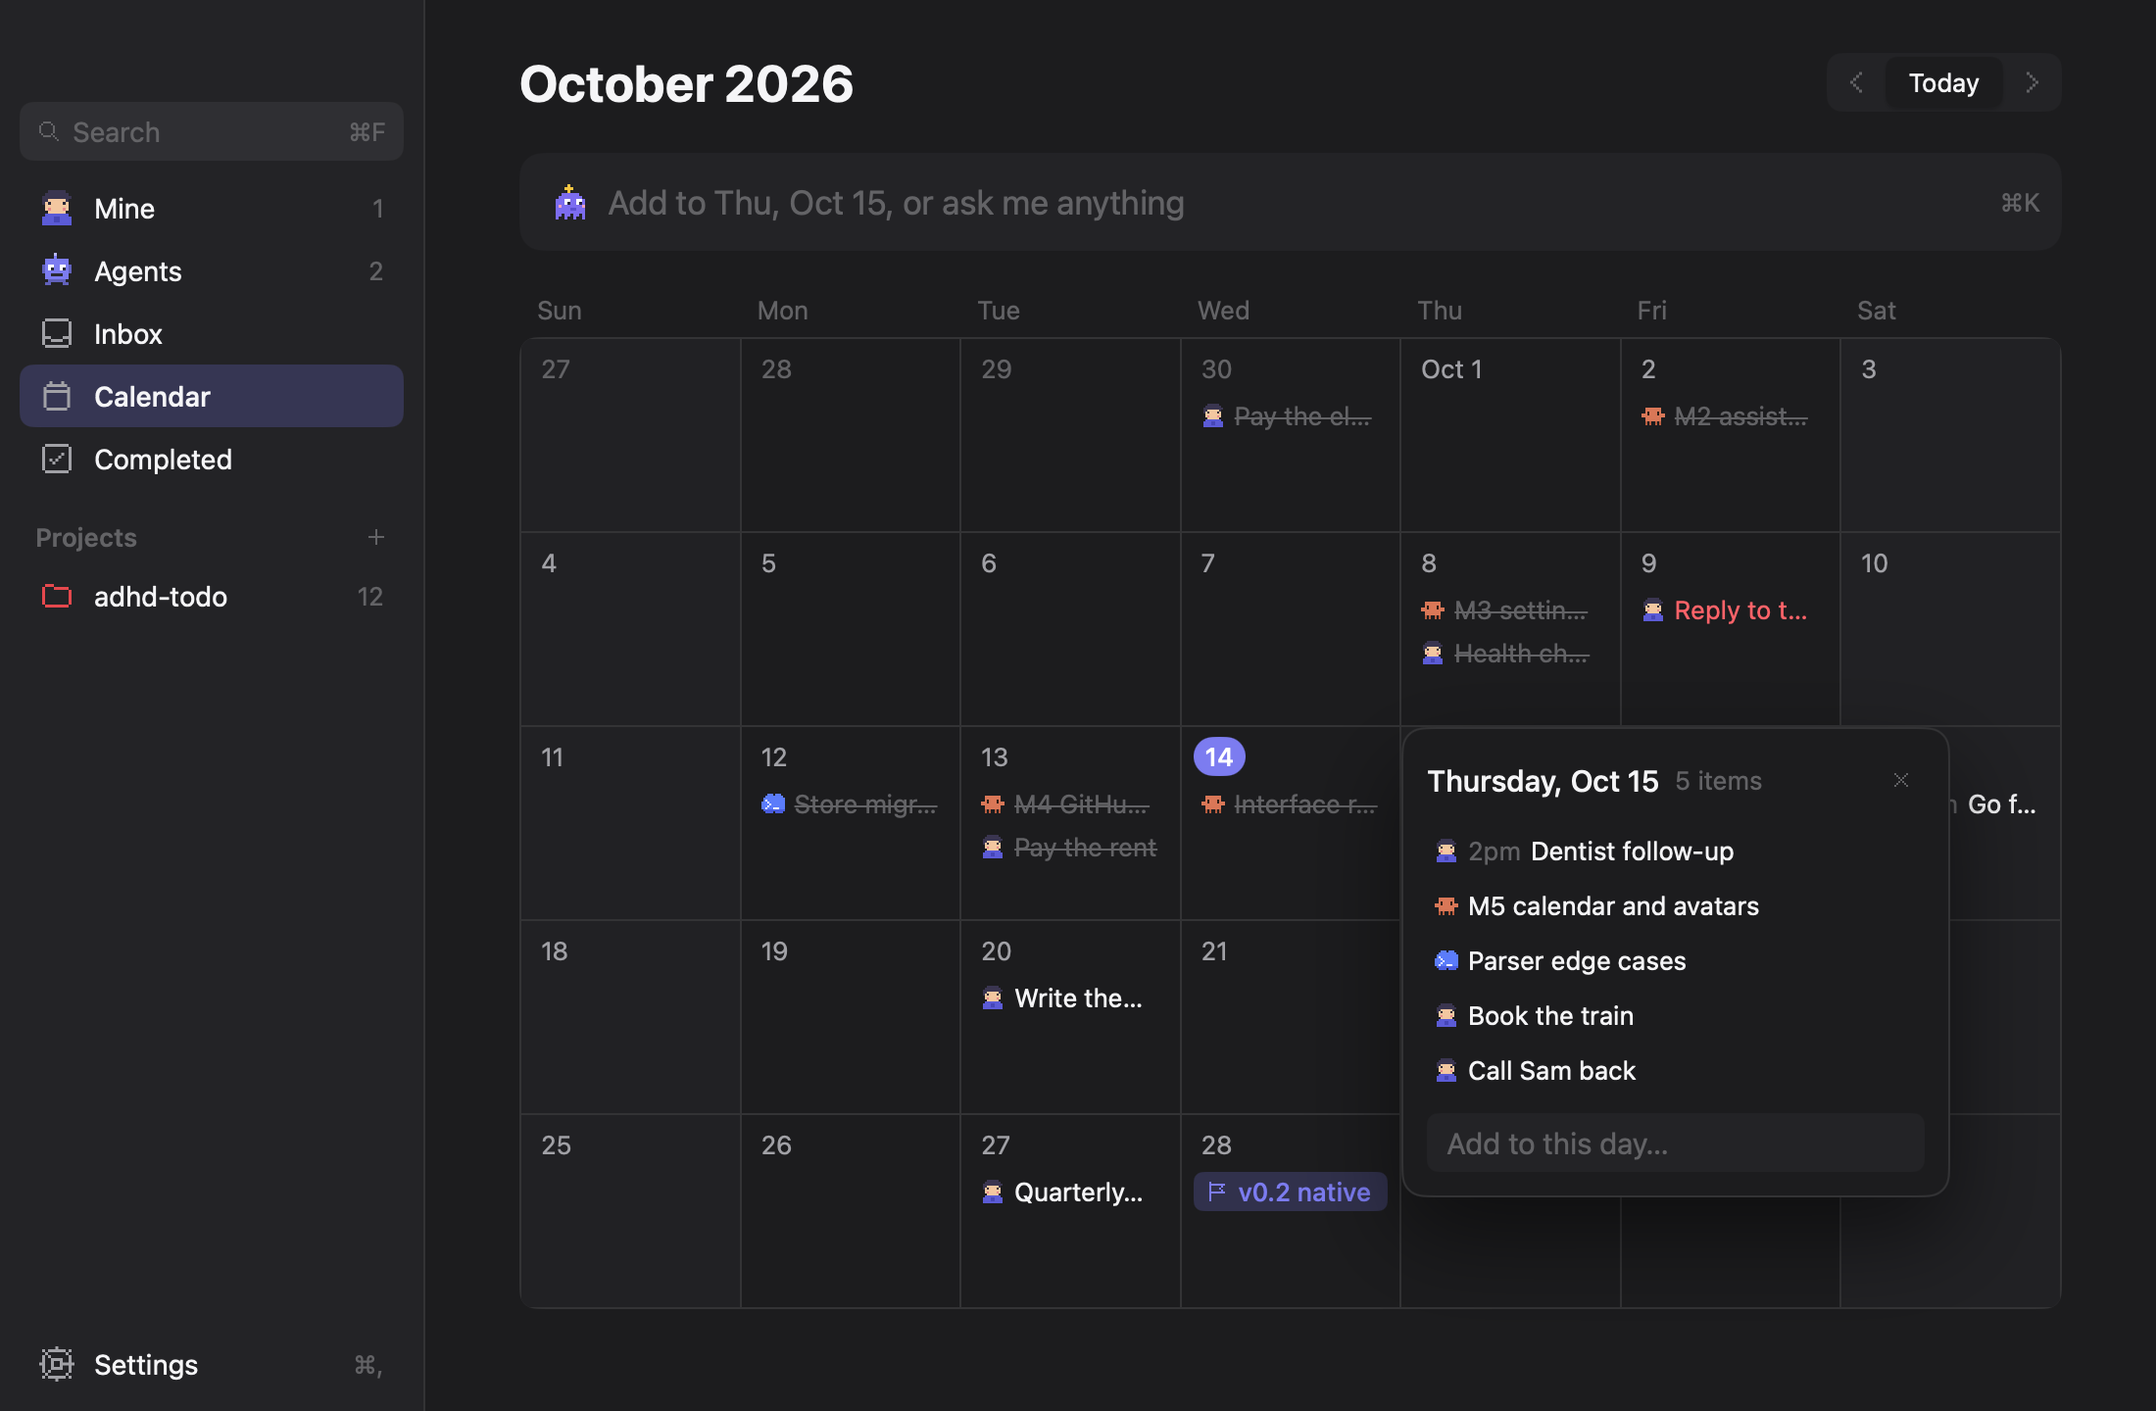
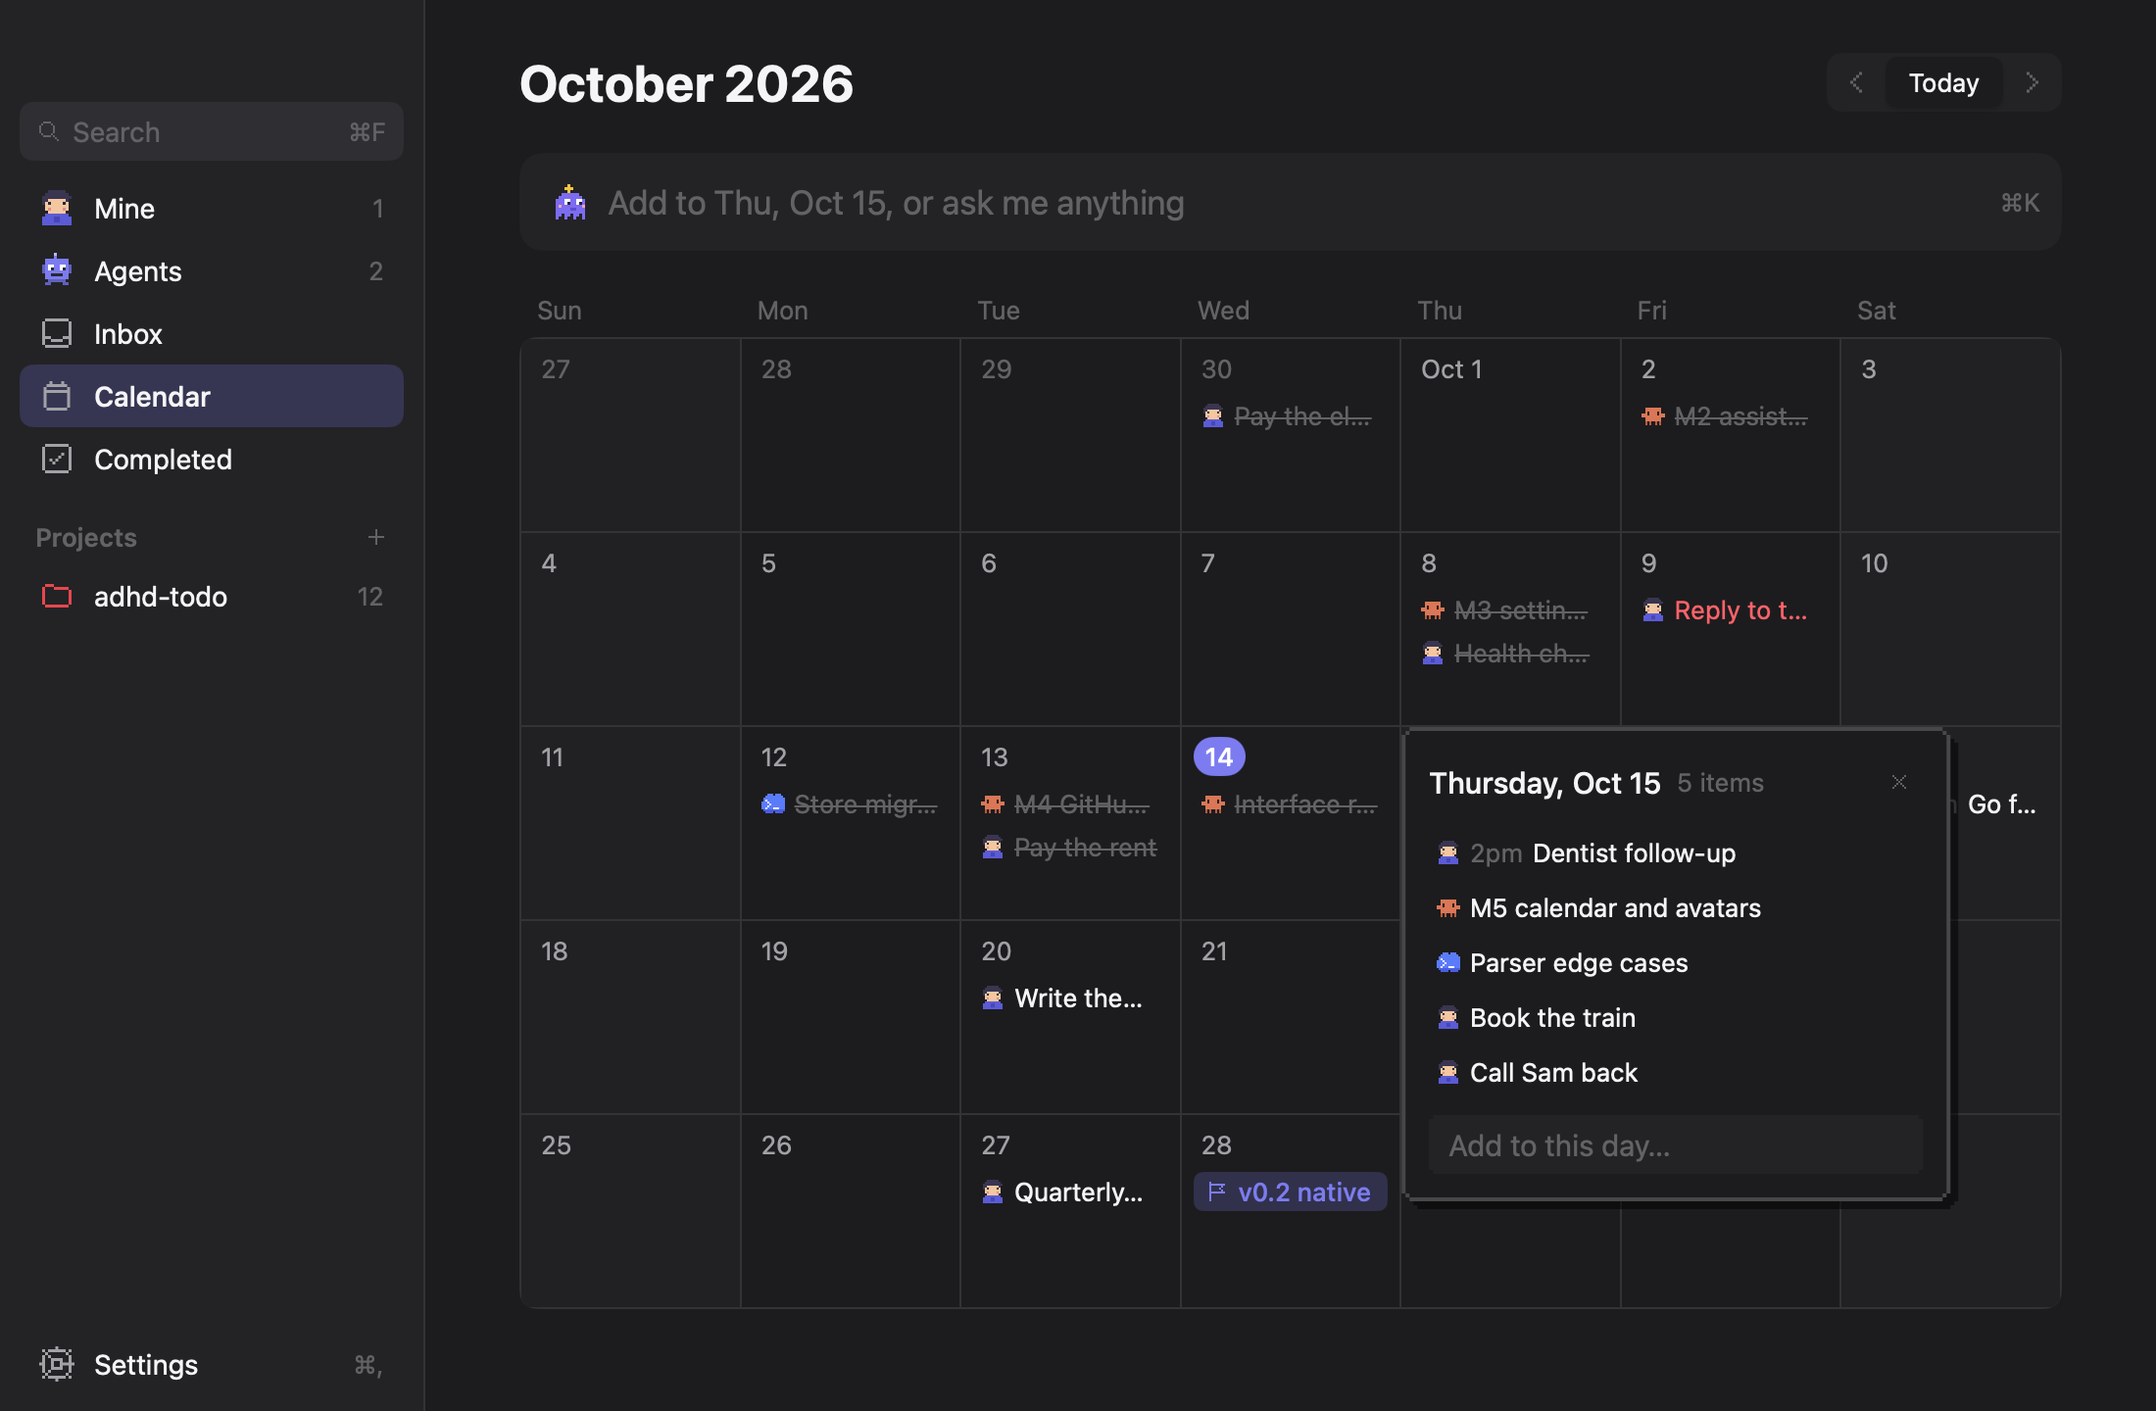
docs(design): v8, the day card in pixels; the spec and the day card screens follow B

Changed region(s): [[0.6491, 0.5938, 0.8345, 0.8125], [0.6491, 0.5312, 0.8036, 0.5625], [0.7418, 0.8125, 0.7727, 0.8438]]

diff --git a/docs/design/mockups/v8.html b/docs/design/mockups/v8.html
@@ -1,0 +1,168 @@
+<!doctype html>
+<html lang="zh-Hans">
+<head>
+<meta charset="utf-8">
+<title>adhd-todo · v8 草稿 — 日卡的像素风和打开动画</title>
+<style>
+  :root {
+    --bg: #ffffff; --subtle: #f4f4f6; --hover: rgba(0,0,0,.045); --border: rgba(0,0,0,.08);
+    --text: #1d1d1f; --text2: #6e6e73; --text3: #a1a1a6; --accent: #5b5bd6; --blocked: #e5484d;
+    --ring: rgba(91,91,214,.6); --well: #f4f4f6;
+    --px-edge: #c9c9d1; --px-shadow: rgba(0,0,0,.10); --ink: #2a2a33; --ink-shadow: rgba(91,91,214,.35);
+  }
+  .dark {
+    --bg: #1c1c1e; --subtle: #2a2a2d; --hover: rgba(255,255,255,.06); --border: rgba(255,255,255,.10);
+    --text: #f2f2f7; --text2: #a1a1a8; --text3: #6c6c73; --accent: #7b7bf0; --blocked: #ff6369;
+    --ring: rgba(123,123,240,.6); --well: #2a2a2d;
+    --px-edge: #48484f; --px-shadow: rgba(0,0,0,.55); --ink: #e6e6ee; --ink-shadow: rgba(123,123,240,.45);
+  }
+  * { box-sizing: border-box; }
+  body { margin: 0; padding: 48px; background: #e4e4ea; font: 15px/22px -apple-system, "PingFang SC", "SF Pro Text", system-ui, sans-serif; color: #1d1d1f; -webkit-font-smoothing: antialiased; }
+  h1 { font: 700 24px/32px -apple-system, "PingFang SC"; margin: 0 0 8px 4px; }
+  .lead { font-size: 14px; line-height: 22px; color: #6e6e73; max-width: 1240px; margin: 0 4px 36px; }
+  .grid2 { display: grid; grid-template-columns: repeat(2, 640px); gap: 40px 48px; }
+  .caption { font: 600 14px/20px -apple-system, "PingFang SC"; color: #6e6e73; margin: 0 0 10px 4px; display: flex; align-items: center; gap: 10px; }
+  .caption .tag { font-weight: 500; font-size: 12px; color: #fff; background: #5b5bd6; border-radius: 6px; padding: 0 7px; }
+  .caption button:first-of-type { margin-left: auto; }
+  .caption button { font: 500 12px/20px -apple-system, "PingFang SC"; border: 0; border-radius: 6px; padding: 2px 10px; background: rgba(0,0,0,.07); color: #1d1d1f; cursor: pointer; }
+  .note { font-size: 13px; line-height: 20px; color: #6e6e73; margin: 10px 4px 0; }
+  .frame { width: 640px; height: 470px; background: var(--bg); color: var(--text); border-radius: 12px; overflow: hidden; position: relative; padding: 20px; box-shadow: 0 0 0 .5px rgba(0,0,0,.22), 0 16px 40px rgba(0,0,0,.12); }
+
+  /* the calendar fragment: Tue to Fri of four weeks */
+  .wk { display: grid; grid-template-columns: repeat(4, 150px); font-size: 12px; line-height: 16px; color: var(--text3); padding: 0 0 8px 10px; }
+  .cal { position: relative; width: 600px; height: 416px; display: grid; grid-template-columns: repeat(4, 150px); grid-template-rows: repeat(4, 104px); border: 1px solid var(--border); border-radius: 12px; overflow: hidden; }
+  .cell { border-right: 1px solid var(--border); border-bottom: 1px solid var(--border); padding: 8px 10px 0; cursor: pointer; position: relative; }
+  .cell:nth-child(4n) { border-right: 0; }
+  .cell:nth-last-child(-n+4) { border-bottom: 0; }
+  .num { font-size: 13px; line-height: 20px; color: var(--text2); height: 20px; display: inline-flex; align-items: center; }
+  .today { background: var(--accent); color: #fff; border-radius: 10px; padding: 0 7px; font-weight: 600; }
+  .it { display: flex; align-items: center; gap: 5px; height: 20px; margin-top: 2px; font-size: 12px; white-space: nowrap; overflow: hidden; color: var(--text); }
+  .it span { overflow: hidden; text-overflow: ellipsis; }
+  .it.done span { color: var(--text3); text-decoration: line-through; }
+  .it.late span { color: var(--blocked); }
+  .chip { display: inline-flex; align-items: center; gap: 4px; height: 20px; padding: 0 6px; border-radius: 5px; background: color-mix(in srgb, var(--accent) 14%, transparent); color: var(--accent); font-size: 12px; font-weight: 500; margin-top: 2px; }
+  svg.px { display: block; flex: none; shape-rendering: crispEdges; }
+
+  /* the day card, as today */
+  .card { position: absolute; width: 280px; transform-origin: 0 0; }
+  .card .body { padding: 12px; }
+  .card.now { background: var(--bg); border: 1px solid var(--border); border-radius: 12px; box-shadow: 0 20px 48px rgba(0,0,0,.18); }
+  .dark .card.now { box-shadow: 0 20px 48px rgba(0,0,0,.55); }
+  .head { display: flex; align-items: center; gap: 8px; height: 24px; }
+  .head b { font-weight: 600; font-size: 15px; }
+  .head i { font-style: normal; font-size: 12px; color: var(--text3); }
+  .close { margin-left: auto; width: 24px; height: 24px; display: grid; place-items: center; color: var(--text3); border-radius: 6px; }
+  .list { margin-top: 8px; }
+  .row { display: flex; align-items: center; gap: 8px; height: 28px; font-size: 14px; padding: 0 2px; }
+  .row .t { color: var(--text3); }
+  .well { margin-top: 8px; height: 32px; border-radius: 8px; background: var(--well); color: var(--text3); font-size: 14px; display: flex; align-items: center; padding: 0 10px; }
+
+  /* pixel corners: two 2 pt steps outside, one inside a 2 pt edge */
+  .step2 { clip-path: polygon(4px 0, calc(100% - 4px) 0, calc(100% - 4px) 2px, calc(100% - 2px) 2px, calc(100% - 2px) 4px, 100% 4px, 100% calc(100% - 4px), calc(100% - 2px) calc(100% - 4px), calc(100% - 2px) calc(100% - 2px), calc(100% - 4px) calc(100% - 2px), calc(100% - 4px) 100%, 4px 100%, 4px calc(100% - 2px), 2px calc(100% - 2px), 2px calc(100% - 4px), 0 calc(100% - 4px), 0 4px, 2px 4px, 2px 2px, 4px 2px); }
+  .step1 { clip-path: polygon(2px 0, calc(100% - 2px) 0, calc(100% - 2px) 2px, 100% 2px, 100% calc(100% - 2px), calc(100% - 2px) calc(100% - 2px), calc(100% - 2px) 100%, 2px 100%, 2px calc(100% - 2px), 0 calc(100% - 2px), 0 2px, 2px 2px); }
+  .card.px .shadow, .card.px .edge { position: absolute; inset: 0; }
+  .card.px .shadow { transform: translate(4px, 4px); background: var(--px-shadow); }
+  .card.px .edge { background: var(--px-edge); }
+  .card.px .inner { position: relative; margin: 2px; background: var(--bg); }
+  .card.px .well { border-radius: 0; }
+  .card.ink .edge { background: var(--ink); }
+  .card.ink .shadow { background: var(--ink-shadow); }
+  .card.ink .head { border-bottom: 2px solid var(--subtle); height: 32px; padding-bottom: 8px; }
+
+  /* the whole calendar in pixels */
+  .pxcal .cal { border: 0; border-radius: 0; background: var(--px-edge); padding: 2px; gap: 2px; grid-template-columns: repeat(4, 147px); grid-template-rows: repeat(4, 101px); }
+  .pxcal .cal .cell { background: var(--bg); border: 0; }
+  .pxcal .today { border-radius: 0; }
+  .pxcal .chip { border-radius: 0; }
+
+  /* the opening: 140 ms ease-out cubic from about the cell's size, fading in over the first 100 ms */
+  .card.play { animation: pop 140ms cubic-bezier(.33, 1, .68, 1) both, fade 100ms cubic-bezier(.33, 1, .68, 1) both; }
+  @keyframes pop { from { transform: scale(.62); } to { transform: scale(1); } }
+  @keyframes fade { from { opacity: 0; } to { opacity: 1; } }
+  .slow .card.play { animation-duration: 1400ms, 1000ms; }
+</style>
+</head>
+<body>
+<h1>v8 · 日卡：像素风选哪种，以及新的打开动画</h1>
+<p class="lead">四种外观放在一起比：A 是现在的样子，B、C 只改日卡，D 连日历格子一起改。每块右上角的「播放」会重放打开动画（新的平滑弹出：140 毫秒，从格子大小放大并淡入），点任意格子也会重放；「慢放 10 倍」方便看清过程。下面两块是 B 和 D 的深色模式。所有方案里文字、头像、图标都不变，变的只是卡片和格子的边、角、影子。</p>
+<div class="grid2" id="panels"></div>
+
+<script>
+const S = {
+  you: { pal: { h: '#3b2f2f', s: '#f1c7a5', e: '#2a2a33', m: '#c96f5a', b: '#5b5bd6' }, g: [
+    '............', '...hhhhhh...', '..hhhhhhhh..', '..hssssssh..', '..sesssses..', '..ssssssss..',
+    '...ssmmss...', '....ssss....', '..bbbbbbbb..', '.bbbbbbbbbb.', '.bbbbbbbbbb.', '............'] },
+  crab: { pal: { o: '#e07a4f', w: '#ffffff', e: '#2a2a33' }, g: [
+    '............', '.o........o.', '.oo......oo.', '..oooooooo..', '.oowoooowoo.', '.ooeooooeoo.',
+    'oooooooooooo', '.oooooooooo.', '..o.o..o.o..', '.o..o..o..o.', '............', '............'] },
+  bot: { pal: { m: '#4f7cf0', d: '#3a5fc4', w: '#ffffff', e: '#1d2a55', a: '#9db6ff' }, g: [
+    '.....a......', '.....m......', '..mmmmmmmm..', '.mmwwmmwwmm.', '.mmwemmwemm.', '.mmmmmmmmmm.',
+    '..mmeeeemm..', '..mmmmmmmm..', '...dddddd...', '..dd....dd..', '............', '............'] },
+};
+function sprite(name, size) {
+  const a = S[name]; let r = '';
+  a.g.forEach((row, y) => [...row].forEach((ch, x) => { if (ch !== '.') r += `<rect x="${x}" y="${y}" width="1" height="1" fill="${a.pal[ch]}"/>`; }));
+  return `<svg class="px" width="${size}" height="${size}" viewBox="0 0 12 12">${r}</svg>`;
+}
+// pixel glyphs on a 12 grid, tinted with the text color
+function glyph(cells, size) {
+  return `<svg class="px" width="${size}" height="${size}" viewBox="0 0 12 12" fill="currentColor">${cells.map(([x, y]) => `<rect x="${x}" y="${y}" width="1" height="1"/>`).join('')}</svg>`;
+}
+const closeCells = [];
+for (let i = 2; i <= 9; i++) { closeCells.push([i, i], [11 - i, i]); }
+const flagCells = [[2,1],[2,2],[2,3],[2,4],[2,5],[2,6],[2,7],[2,8],[2,9],[2,10]];
+for (let y = 1; y <= 5; y++) for (let x = 3; x <= 9; x++) flagCells.push([x, y]);
+
+const item = (av, text, cls = '') => `<div class="it ${cls}">${sprite(av, 12)}<span>${text}</span></div>`;
+const days = [
+  ['6', ''], ['7', ''], ['8', item('crab', 'M3 设置页', 'done') + item('you', '体检预约', 'done')], ['9', item('you', '回复房东', 'late')],
+  ['13', item('crab', 'M4 GitHub', 'done') + item('you', '交房租', 'done')], ['14', item('crab', '界面重做', 'done')], ['15', item('you', '复诊牙医') + item('crab', 'M5 日历')], ['16', item('you', 'Go 泛型笔记')],
+  ['20', item('you', '写周报')], ['21', ''], ['22', ''], ['23', ''],
+  ['27', item('you', '季度总结')], ['28', `<div class="chip">${glyph(flagCells, 12)}v0.2 原生</div>`], ['29', ''], ['30', ''],
+];
+function calendar() {
+  const cells = days.map(([n, inner]) => `<div class="cell"><div class="num ${n === '14' ? 'today' : ''}">${n}</div>${inner}</div>`).join('');
+  return `<div class="wk"><span>周二</span><span>周三</span><span>周四</span><span>周五</span></div><div class="cal">${cells}</div>`;
+}
+function cardBody() {
+  const rows = [['you', '复诊牙医', '下午 2 点'], ['crab', 'M5 日历和头像'], ['bot', '解析器边界情况'], ['you', '订火车票'], ['you', '给 Sam 回电话']]
+    .map(([av, text, t]) => `<div class="row">${sprite(av, 18)}${t ? `<span class="t">${t}</span>` : ''}<span>${text}</span></div>`).join('');
+  return `<div class="body"><div class="head"><b>10 月 15 日 星期四</b><i>5 项</i><span class="close">${glyph(closeCells, 12)}</span></div><div class="list">${rows}</div><div class="well WELL">添加到这天…</div></div>`;
+}
+// the card's top left sits on the cell of the 15th: column 3, row 2, under the weekday names
+const at = 'left:321px; top:149px;';
+function card(kind) {
+  if (kind === 'now') return `<div class="card now" style="${at}">${cardBody().replace('WELL', '')}</div>`;
+  const ink = kind === 'ink' ? ' ink' : '';
+  return `<div class="card px${ink}" style="${at}"><div class="shadow step2"></div><div class="edge step2"></div><div class="inner step1">${cardBody().replace('WELL', 'step1')}</div></div>`;
+}
+
+const panels = [
+  { id: 'A', title: 'A · 现在：圆角 + 柔和阴影', card: 'now', note: '对照组。圆角 12、1 点浅描边、模糊的大阴影：和系统的弹出面板一个路子，跟像素图标和头像放在一起有点两种画风。' },
+  { id: 'B', title: 'B · 克制的像素卡片', tag: '我倾向', card: 'px', note: '只改日卡：角做成两级台阶，2 点实色灰边，影子换成向右下偏 4 点、不模糊的硬影。颜色还是界面原来的灰，安静，但一眼能看出是像素的“块”，和头像、图标是同一套语言。输入框也是台阶角。' },
+  { id: 'C', title: 'C · 游戏感更强的像素卡片', card: 'ink', note: '在 B 的基础上把边换成深色墨线，硬影染成主题紫，标题下加一条 2 点分隔。更像游戏里的对话框，存在感强；但整个界面别处都很安静，它会显得跳。' },
+  { id: 'D', title: 'D · 整个日历一起像素化', card: 'px', pxcal: true, note: '日卡同 B，日历也跟着改：外框和格线变成 2 点实色，没有圆角；“今天”的紫色标记和里程碑标签变成直角块。风格最统一，但改动面大，日历会比别的页面“硬”。' },
+  { id: 'B-dark', title: 'B · 深色模式', card: 'px', dark: true, note: '深色下边是深灰，硬影几乎是黑的：卡片像是浮起来一格。' },
+  { id: 'D-dark', title: 'D · 深色模式', card: 'px', dark: true, pxcal: true, note: '深色下整个日历的 2 点格线会比 A 的细线明显得多。' },
+];
+document.getElementById('panels').innerHTML = panels.map(p => `
+  <div>
+    <div class="caption">${p.title}${p.tag ? `<span class="tag">${p.tag}</span>` : ''}<button data-play="${p.id}">播放</button><button data-slow="${p.id}">慢放 10 倍</button></div>
+    <div class="frame ${p.dark ? 'dark' : ''} ${p.pxcal ? 'pxcal' : ''}" id="f-${p.id}">${calendar()}${card(p.card)}</div>
+    <p class="note">${p.note}</p>
+  </div>`).join('');
+
+function play(id, slow) {
+  const f = document.getElementById('f-' + id), c = f.querySelector('.card');
+  f.classList.toggle('slow', !!slow);
+  c.classList.remove('play'); void c.offsetWidth; c.classList.add('play');
+}
+document.addEventListener('click', e => {
+  const b = e.target.closest('button');
+  if (b) { play(b.dataset.play || b.dataset.slow, !!b.dataset.slow); return; }
+  const f = e.target.closest('.frame');
+  if (f && e.target.closest('.cell')) play(f.id.slice(2));
+});
+</script>
+</body>
+</html>

diff --git a/docs/design/ui-spec.md b/docs/design/ui-spec.md
@@ -867,12 +867,13 @@ Reference: `v4.html` frame 1, screens `calendar-*.png`. A month of tasks by the 
   left sits on the cell's top left, so it covers the cell and grows outward; near the right or bottom
   edge of the window it grows left or up instead and stays 8 pt inside the window. Width
   `max(1.6 × cell, 280 pt)` on the 4 pt grid; height follows its content up to 420 pt, then the list
-  scrolls. A panel like the sheets: `bg`, `RadiusPanel`, 1 pt `border`, the sheets' shadow, 12 pt
-  padding. Top to bottom: the header (`Thursday, Oct 15` / `10 月 15 日 星期四` in `body.strong`, the
+  scrolls. A **pixel panel** (`theme.DrawPixelPanel`, `v8.html` B): `bg`, corners stepped in twice by
+  2 pt, a 2 pt edge in `PixelEdge` (`bg` a fifth of the way to `text`), and a hard shadow 4 pt right
+  and down, not blurred (black at 10 %, 50 % in dark mode); 12 pt padding inside the edge. Top to bottom: the header (`Thursday, Oct 15` / `10 月 15 日 星期四` in `body.strong`, the
   count `5 items` / `5 项` in `text.tertiary`, a 24 pt `IconClose` button at the right); every item of
   the day, 28 pt rows drawn like the cell's items (avatar, a reminder's time, the title; finished items
   struck through, milestones as the accent chip), a click opens the task in the inspector and closes
-  the card; at the foot an input in the sheets' well (`Add to this day…` / `添加到这天…`). Enter adds a
+  the card; at the foot an input in the sheets' well, its corners stepped once (`theme.DrawPixelWell`) (`Add to this day…` / `添加到这天…`). Enter adds a
   plain task by me, due that day at 18:00, clears the input and keeps the card open, the new item
   joining the list; empty text does nothing. **Closing**: `Esc`, a click outside (it does nothing
   else: it does not select the day under it), the close button, a change of month or `Today`, and
